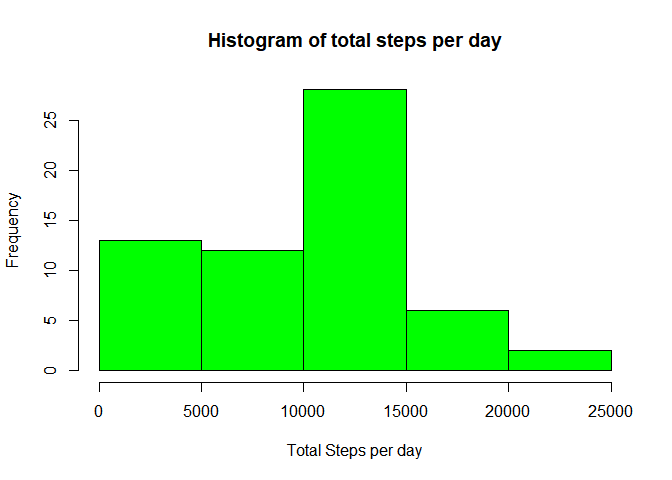
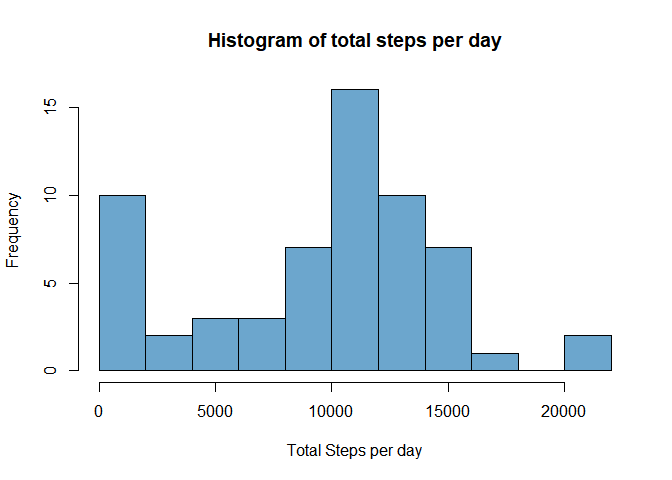
adds remaining parts of the assignment

diff --git a/PA1_template.html b/PA1_template.html
@@ -369,58 +369,69 @@ summary {
 <div id="load-required-libraries" class="section level2">
 <h2>Load required libraries</h2>
 <pre class="r"><code>library(dplyr, warn.conflicts = FALSE, quietly = TRUE)
-library(knitr)</code></pre>
+library(knitr)
+library(lattice)</code></pre>
 </div>
 <div id="loading-and-preprocessing-the-data" class="section level2">
 <h2>Loading and preprocessing the data</h2>
-<p>Load the data</p>
+<div id="load-the-data" class="section level3">
+<h3>Load the data</h3>
 <pre class="r"><code>if (!exists(&quot;activity.csv&quot;) &amp; exists(&quot;activity.zip&quot;)){
   unzip(&quot;activity.zip&quot;)
 }
 activity_raw &lt;- read.csv(&quot;activity.csv&quot;)</code></pre>
-<p>Process/transform the data (if necessary) into a format suitable for your analysis</p>
+</div>
+<div id="processtransform-the-data-if-necessary-into-a-format-suitable-for-your-analysis" class="section level3">
+<h3>Process/transform the data (if necessary) into a format suitable for your analysis</h3>
 <pre class="r"><code># Convert the character type dates into Date class
 activity_raw$date &lt;- as.Date(activity_raw$date, &quot;%Y-%m-%d&quot;)</code></pre>
 </div>
+</div>
 <div id="what-is-mean-total-number-of-steps-taken-per-day" class="section level2">
 <h2>What is mean total number of steps taken per day?</h2>
-<p>Calculate the total number of steps taken per day</p>
+<div id="calculate-the-total-number-of-steps-taken-per-day" class="section level3">
+<h3>Calculate the total number of steps taken per day</h3>
 <pre class="r"><code>total_number_of_steps_per_day &lt;- activity_raw %&gt;% 
   group_by(date) %&gt;% 
   summarise(total.steps = sum(steps, na.rm = TRUE))
 
-head(total_number_of_steps_per_day, 10)</code></pre>
-<pre><code>## # A tibble: 10 x 2
-##    date       total.steps
-##    &lt;date&gt;           &lt;int&gt;
-##  1 2012-10-01           0
-##  2 2012-10-02         126
-##  3 2012-10-03       11352
-##  4 2012-10-04       12116
-##  5 2012-10-05       13294
-##  6 2012-10-06       15420
-##  7 2012-10-07       11015
-##  8 2012-10-08           0
-##  9 2012-10-09       12811
-## 10 2012-10-10        9900</code></pre>
-<p>Make a histogram of the total number of steps taken each day</p>
+head(total_number_of_steps_per_day)</code></pre>
+<pre><code>## # A tibble: 6 x 2
+##   date       total.steps
+##   &lt;date&gt;           &lt;int&gt;
+## 1 2012-10-01           0
+## 2 2012-10-02         126
+## 3 2012-10-03       11352
+## 4 2012-10-04       12116
+## 5 2012-10-05       13294
+## 6 2012-10-06       15420</code></pre>
+</div>
+<div id="make-a-histogram-of-the-total-number-of-steps-taken-each-day" class="section level3">
+<h3>Make a histogram of the total number of steps taken each day</h3>
 <pre class="r"><code>with(total_number_of_steps_per_day, hist(total.steps, 
                                          xlab = c(&quot;Total Steps per day&quot;),
                                          main = c(&quot;Histogram of total steps per day&quot;),
-                                         col = &quot;green&quot;))</code></pre>
[1 lines of base64/hex data omitted]
-<p>Calculate and report the mean of the total number of steps taken per day</p>
+                                         col = &quot;skyblue3&quot;,
+                                         breaks = 8))</code></pre>
[1 lines of base64/hex data omitted]
+</div>
+<div id="calculate-and-report-the-mean-of-the-total-number-of-steps-taken-per-day" class="section level3">
+<h3>Calculate and report the mean of the total number of steps taken per day</h3>
 <pre class="r"><code>sprintf(&quot;Mean Total Steps Per Day = %0.0f&quot;,
         total_number_of_steps_per_day %&gt;% summarise(mean(total.steps, na.rm = TRUE)))</code></pre>
 <pre><code>## [1] &quot;Mean Total Steps Per Day = 9354&quot;</code></pre>
-<p>Calculate and report the median of the total number of steps taken per day</p>
+</div>
+<div id="calculate-and-report-the-median-of-the-total-number-of-steps-taken-per-day" class="section level3">
+<h3>Calculate and report the median of the total number of steps taken per day</h3>
 <pre class="r"><code>sprintf(&quot;Median Total Steps Per Day = %0.0f&quot;,
         total_number_of_steps_per_day %&gt;% summarise(median(total.steps, na.rm = TRUE)))</code></pre>
 <pre><code>## [1] &quot;Median Total Steps Per Day = 10395&quot;</code></pre>
 </div>
+</div>
 <div id="what-is-the-average-daily-activity-pattern" class="section level2">
 <h2>What is the average daily activity pattern?</h2>
-<p>Make a time series plot ( i.e. type = “l”) of the 5-minute interval (x-axis) and the average number of steps taken, averaged across all days (y-axis)</p>
+<div id="make-a-time-series-plot-i.e.-type-l-of-the-5-minute-interval-x-axis-and-the-average-number-of-steps-taken-averaged-across-all-days-y-axis" class="section level3">
+<h3>Make a time series plot ( i.e. type = “l”) of the 5-minute interval (x-axis) and the average number of steps taken, averaged across all days (y-axis)</h3>
 <pre class="r"><code>mean_daily_activity &lt;- activity_raw %&gt;% group_by(interval) %&gt;% summarise(mean.steps = mean(steps, na.rm = TRUE))
 
 with(mean_daily_activity, plot(interval, mean.steps, 
@@ -429,24 +440,85 @@ with(mean_daily_activity, plot(interval, mean.steps,
                                ylab = &quot;Average Steps taken&quot;,
                                main = &quot;Daily Activity Pattern&quot;))</code></pre>
[1 lines of base64/hex data omitted]
-<p>Which 5-minute interval, on average across all the days in the dataset, contains the maximum number of steps?</p>
-<pre class="r"><code>mean_daily_activity$interval[which.max(mean_daily_activity$mean.steps)]</code></pre>
-<p>[1] 835</p>
+</div>
+<div id="which-5-minute-interval-on-average-across-all-the-days-in-the-dataset-contains-the-maximum-number-of-steps" class="section level3">
+<h3>Which 5-minute interval, on average across all the days in the dataset, contains the maximum number of steps?</h3>
+<pre class="r"><code>sprintf(&quot;5-minute interval with maximum number of steps is %0.0f&quot;,mean_daily_activity$interval[which.max(mean_daily_activity$mean.steps)])</code></pre>
+<p>[1] “5-minute interval with maximum number of steps is 835”</p>
+</div>
 </div>
 <div id="imputing-missing-values" class="section level2">
 <h2>Imputing missing values</h2>
-<p>Calculate and report the total number of missing values in the dataset (i.e. the total number of rows with NAs</p>
+<div id="calculate-and-report-the-total-number-of-missing-values-in-the-dataset-i.e.-the-total-number-of-rows-with-nas" class="section level3">
+<h3>Calculate and report the total number of missing values in the dataset (i.e. the total number of rows with NAs</h3>
 <pre class="r"><code>sprintf(&quot;Total number of NAs = %0.0f&quot;, sum(is.na(activity_raw$steps)))</code></pre>
 <p>[1] “Total number of NAs = 2304”</p>
-<p>Devise a strategy for filling in all of the missing values in the dataset. The strategy does not need to be sophisticated. For example, you could use the mean/median for that day, or the mean for that 5-minute interval, etc.</p>
-<p>Create a new dataset that is equal to the original dataset but with the missing data filled in.</p>
-<p>Make a histogram of the total number of steps taken each day and Calculate and report the mean and median total number of steps taken per day. Do these values differ from the estimates from the first part of the assignment?</p>
-<p>What is the impact of imputing missing data on the estimates of the total daily number of steps?</p>
+</div>
+<div id="devise-a-strategy-for-filling-in-all-of-the-missing-values-in-the-dataset.-the-strategy-does-not-need-to-be-sophisticated.-for-example-you-could-use-the-meanmedian-for-that-day-or-the-mean-for-that-5-minute-interval-etc." class="section level3">
+<h3>Devise a strategy for filling in all of the missing values in the dataset. The strategy does not need to be sophisticated. For example, you could use the mean/median for that day, or the mean for that 5-minute interval, etc.</h3>
+</div>
+<div id="create-a-new-dataset-that-is-equal-to-the-original-dataset-but-with-the-missing-data-filled-in." class="section level3">
+<h3>Create a new dataset that is equal to the original dataset but with the missing data filled in.</h3>
+<pre class="r"><code># Find the rows with NA steps
+indices_with_NA &lt;- which(is.na(activity_raw$steps))
+
+# Make a copy of the activity dataframe that will be imputed
+activity &lt;- activity_raw
+
+# For each Na entry in the steps column, replace it with the mean across days for the corresponding interval
+for (current_index in indices_with_NA)
+{
+  activity$steps[current_index] &lt;- mean_daily_activity$mean.steps[mean_daily_activity$interval == activity$interval[current_index]]
+}</code></pre>
+</div>
+<div id="make-a-histogram-of-the-total-number-of-steps-taken-each-day-and-calculate-and-report-the-mean-and-median-total-number-of-steps-taken-per-day.-do-these-values-differ-from-the-estimates-from-the-first-part-of-the-assignment" class="section level3">
+<h3>Make a histogram of the total number of steps taken each day and Calculate and report the mean and median total number of steps taken per day. Do these values differ from the estimates from the first part of the assignment?</h3>
+<pre class="r"><code># Calculate total number of steps taken each day
+total_number_of_steps_per_day_imputed &lt;- activity %&gt;% 
+  group_by(date) %&gt;% 
+  summarise(total.steps = sum(steps, na.rm = TRUE))
+
+# Create a histogram
+with(total_number_of_steps_per_day_imputed, hist(total.steps, 
+                                         xlab = c(&quot;Total Steps per day&quot;),
+                                         main = c(&quot;Histogram of total steps per day after imputing missing values&quot;),
+                                         col = &quot;skyblue3&quot;,
+                                         breaks = 8))</code></pre>
[1 lines of base64/hex data omitted]
+<pre class="r"><code>sprintf(&quot;Mean Total Steps Per Day after imputing missing values = %0.0f&quot;,
+        total_number_of_steps_per_day_imputed %&gt;% summarise(mean(total.steps, na.rm = TRUE)))</code></pre>
+<p>[1] “Mean Total Steps Per Day after imputing missing values = 10766”</p>
+<pre class="r"><code>sprintf(&quot;Median Total Steps Per Day after imputing missing values = %0.0f&quot;,
+        total_number_of_steps_per_day_imputed %&gt;% summarise(median(total.steps, na.rm = TRUE)))</code></pre>
+<p>[1] “Median Total Steps Per Day after imputing missing values = 10766”</p>
+</div>
+<div id="what-is-the-impact-of-imputing-missing-data-on-the-estimates-of-the-total-daily-number-of-steps" class="section level3">
+<h3>What is the impact of imputing missing data on the estimates of the total daily number of steps?</h3>
+<p>Imputing the missing values has changed the distribution of the steps across days. The imputing strategy of replacing the missing values with non-zero mean values has increased both the mean and median of the total number of steps across days</p>
+</div>
 </div>
 <div id="are-there-differences-in-activity-patterns-between-weekdays-and-weekends" class="section level2">
 <h2>Are there differences in activity patterns between weekdays and weekends?</h2>
-<p>Create a new factor variable in the dataset with two levels – “weekday” and “weekend” indicating whether a given date is a weekday or weekend day.</p>
-<p>Make a panel plot containing a time series plot (i.e. type = “l”) of the 5-minute interval (x-axis) and the average number of steps taken, averaged across all weekday days or weekend days (y-axis).</p>
+<div id="create-a-new-factor-variable-in-the-dataset-with-two-levels-weekday-and-weekend-indicating-whether-a-given-date-is-a-weekday-or-weekend-day." class="section level3">
+<h3>Create a new factor variable in the dataset with two levels – “weekday” and “weekend” indicating whether a given date is a weekday or weekend day.</h3>
+<pre class="r"><code>activity &lt;- mutate(activity, type.of.day = as.POSIXlt(activity$date)$wday)
+activity$type.of.day[which(activity$type.of.day &lt; 6 &amp; activity$type.of.day &gt; 0)] &lt;- c(&quot;weekday&quot;)
+activity$type.of.day[which(activity$type.of.day == 0 | activity$type.of.day == 6)] &lt;- c(&quot;weekend&quot;)
+activity$type.of.day &lt;- as.factor(activity$type.of.day)</code></pre>
+</div>
+<div id="make-a-panel-plot-containing-a-time-series-plot-i.e.type-l-of-the-5-minute-interval-x-axis-and-the-average-number-of-steps-taken-averaged-across-all-weekday-days-or-weekend-days-y-axis." class="section level3">
+<h3>Make a panel plot containing a time series plot (i.e.type = “l”) of the 5-minute interval (x-axis) and the average number of steps taken, averaged across all weekday days or weekend days (y-axis).</h3>
+<pre class="r"><code># Calculate the average total number of steps across intervals by weekday or weekend 
+activity_type_of_day &lt;- activity %&gt;% group_by(type.of.day, interval) %&gt;% summarise(mean.steps = mean(steps, na.rm = TRUE))
+
+# Generate the panel plot
+xyplot(mean.steps ~ interval | type.of.day,
+    data = activity_type_of_day, type = c(&quot;l&quot;),
+    layout = c(1,2),
+    xlab = &quot;Interval&quot;,
+    ylab = &quot;Number of Steps&quot;)</code></pre>
[1 lines of base64/hex data omitted]
+</div>
 </div>
 
 

diff --git a/PA1_template.md b/PA1_template.md
@@ -10,10 +10,11 @@ output:
 ```r
 library(dplyr, warn.conflicts = FALSE, quietly = TRUE)
 library(knitr)
+library(lattice)
 ```
 
 ## Loading and preprocessing the data 
-Load the data
+### Load the data
 
 ```r
 if (!exists("activity.csv") & exists("activity.zip")){
@@ -22,7 +23,7 @@ if (!exists("activity.csv") & exists("activity.zip")){
 activity_raw <- read.csv("activity.csv")
 ```
 
-Process/transform the data (if necessary) into a format suitable for your analysis
+### Process/transform the data (if necessary) into a format suitable for your analysis
 
 ```r
 # Convert the character type dates into Date class
@@ -30,44 +31,41 @@ activity_raw$date <- as.Date(activity_raw$date, "%Y-%m-%d")
 ```
 
 ## What is mean total number of steps taken per day?
-Calculate the total number of steps taken per day
+### Calculate the total number of steps taken per day
 
 ```r
 total_number_of_steps_per_day <- activity_raw %>% 
   group_by(date) %>% 
   summarise(total.steps = sum(steps, na.rm = TRUE))
 
-head(total_number_of_steps_per_day, 10)
+head(total_number_of_steps_per_day)
 ```
 
 ```
-## # A tibble: 10 x 2
-##    date       total.steps
-##    <date>           <int>
-##  1 2012-10-01           0
-##  2 2012-10-02         126
-##  3 2012-10-03       11352
-##  4 2012-10-04       12116
-##  5 2012-10-05       13294
-##  6 2012-10-06       15420
-##  7 2012-10-07       11015
-##  8 2012-10-08           0
-##  9 2012-10-09       12811
-## 10 2012-10-10        9900
+## # A tibble: 6 x 2
+##   date       total.steps
+##   <date>           <int>
+## 1 2012-10-01           0
+## 2 2012-10-02         126
+## 3 2012-10-03       11352
+## 4 2012-10-04       12116
+## 5 2012-10-05       13294
+## 6 2012-10-06       15420
 ```
 
-Make a histogram of the total number of steps taken each day
+### Make a histogram of the total number of steps taken each day
 
 ```r
 with(total_number_of_steps_per_day, hist(total.steps, 
                                          xlab = c("Total Steps per day"),
                                          main = c("Histogram of total steps per day"),
-                                         col = "green"))
+                                         col = "skyblue3",
+                                         breaks = 8))
 ```
 
 ![](PA1_template_files/figure-html/unnamed-chunk-5-1.png)<!-- -->
 
-Calculate and report the mean of the total number of steps taken per day
+### Calculate and report the mean of the total number of steps taken per day
 
 ```r
 sprintf("Mean Total Steps Per Day = %0.0f",
@@ -78,7 +76,7 @@ sprintf("Mean Total Steps Per Day = %0.0f",
 ## [1] "Mean Total Steps Per Day = 9354"
 ```
 
-Calculate and report the median of the total number of steps taken per day
+### Calculate and report the median of the total number of steps taken per day
 
 ```r
 sprintf("Median Total Steps Per Day = %0.0f",
@@ -90,7 +88,7 @@ sprintf("Median Total Steps Per Day = %0.0f",
 ```
 
 ## What is the average daily activity pattern?
-Make a time series plot ( i.e. type = "l") of the 5-minute interval (x-axis) and the average number of steps taken, averaged across all days (y-axis)
+### Make a time series plot ( i.e. type = "l") of the 5-minute interval (x-axis) and the average number of steps taken, averaged across all days (y-axis)
 
 ```r
 mean_daily_activity <- activity_raw %>% group_by(interval) %>% summarise(mean.steps = mean(steps, na.rm = TRUE))
@@ -104,16 +102,16 @@ with(mean_daily_activity, plot(interval, mean.steps,
 
 ![](PA1_template_files/figure-html/unnamed-chunk-8-1.png)<!-- -->
 
-Which 5-minute interval, on average across all the days in the dataset, contains the maximum number of steps?
+### Which 5-minute interval, on average across all the days in the dataset, contains the maximum number of steps?
 
 ```r
-mean_daily_activity$interval[which.max(mean_daily_activity$mean.steps)]
+sprintf("5-minute interval with maximum number of steps is %0.0f",mean_daily_activity$interval[which.max(mean_daily_activity$mean.steps)])
 ```
 
-[1] 835
+[1] "5-minute interval with maximum number of steps is 835"
 
 ## Imputing missing values
-Calculate and report the total number of missing values in the dataset (i.e. the total number of rows with NAs
+### Calculate and report the total number of missing values in the dataset (i.e. the total number of rows with NAs
 
 ```r
 sprintf("Total number of NAs = %0.0f", sum(is.na(activity_raw$steps)))
@@ -121,15 +119,81 @@ sprintf("Total number of NAs = %0.0f", sum(is.na(activity_raw$steps)))
 
 [1] "Total number of NAs = 2304"
 
-Devise a strategy for filling in all of the missing values in the dataset. The strategy does not need to be sophisticated. For example, you could use the mean/median for that day, or the mean for that 5-minute interval, etc.
+### Devise a strategy for filling in all of the missing values in the dataset. The strategy does not need to be sophisticated. For example, you could use the mean/median for that day, or the mean for that 5-minute interval, etc.
 
-Create a new dataset that is equal to the original dataset but with the missing data filled in.
+### Create a new dataset that is equal to the original dataset but with the missing data filled in.
 
-Make a histogram of the total number of steps taken each day and Calculate and report the mean and median total number of steps taken per day. Do these values differ from the estimates from the first part of the assignment? 
+```r
+# Find the rows with NA steps
+indices_with_NA <- which(is.na(activity_raw$steps))
 
-What is the impact of imputing missing data on the estimates of the total daily number of steps?
+# Make a copy of the activity dataframe that will be imputed
+activity <- activity_raw
+
+# For each Na entry in the steps column, replace it with the mean across days for the corresponding interval
+for (current_index in indices_with_NA)
+{
+  activity$steps[current_index] <- mean_daily_activity$mean.steps[mean_daily_activity$interval == activity$interval[current_index]]
+}
+```
+
+### Make a histogram of the total number of steps taken each day and Calculate and report the mean and median total number of steps taken per day. Do these values differ from the estimates from the first part of the assignment? 
+
+```r
+# Calculate total number of steps taken each day
+total_number_of_steps_per_day_imputed <- activity %>% 
+  group_by(date) %>% 
+  summarise(total.steps = sum(steps, na.rm = TRUE))
+
+# Create a histogram
+with(total_number_of_steps_per_day_imputed, hist(total.steps, 
+                                         xlab = c("Total Steps per day"),
+                                         main = c("Histogram of total steps per day after imputing missing values"),
+                                         col = "skyblue3",
+                                         breaks = 8))
+```
+
+![](PA1_template_files/figure-html/unnamed-chunk-12-1.png)<!-- -->
+
+```r
+sprintf("Mean Total Steps Per Day after imputing missing values = %0.0f",
+        total_number_of_steps_per_day_imputed %>% summarise(mean(total.steps, na.rm = TRUE)))
+```
+
+[1] "Mean Total Steps Per Day after imputing missing values = 10766"
+
+```r
+sprintf("Median Total Steps Per Day after imputing missing values = %0.0f",
+        total_number_of_steps_per_day_imputed %>% summarise(median(total.steps, na.rm = TRUE)))
+```
+
+[1] "Median Total Steps Per Day after imputing missing values = 10766"
+
+### What is the impact of imputing missing data on the estimates of the total daily number of steps?
+Imputing the missing values has changed the distribution of the steps across days. The imputing strategy of replacing the missing values with non-zero mean values has increased both the mean and median of the total number of steps across days 
 
 ## Are there differences in activity patterns between weekdays and weekends?
-Create a new factor variable in the dataset with two levels – “weekday” and “weekend” indicating whether a given date is a weekday or weekend day.
+### Create a new factor variable in the dataset with two levels – “weekday” and “weekend” indicating whether a given date is a weekday or weekend day.
 
-Make a panel plot containing a time series plot (i.e. \color{red}{\verb|type = "l"|}type = "l") of the 5-minute interval (x-axis) and the average number of steps taken, averaged across all weekday days or weekend days (y-axis). 
+```r
+activity <- mutate(activity, type.of.day = as.POSIXlt(activity$date)$wday)
+activity$type.of.day[which(activity$type.of.day < 6 & activity$type.of.day > 0)] <- c("weekday")
+activity$type.of.day[which(activity$type.of.day == 0 | activity$type.of.day == 6)] <- c("weekend")
+activity$type.of.day <- as.factor(activity$type.of.day)
+```
+
+### Make a panel plot containing a time series plot (i.e.type = "l") of the 5-minute interval (x-axis) and the average number of steps taken, averaged across all weekday days or weekend days (y-axis).
+
+```r
+# Calculate the average total number of steps across intervals by weekday or weekend 
+activity_type_of_day <- activity %>% group_by(type.of.day, interval) %>% summarise(mean.steps = mean(steps, na.rm = TRUE))
+
+# Generate the panel plot
+xyplot(mean.steps ~ interval | type.of.day,
+    data = activity_type_of_day, type = c("l"),
+    layout = c(1,2),
+    xlab = "Interval",
+    ylab = "Number of Steps")
+```
+
+![](PA1_template_files/figure-html/unnamed-chunk-14-1.png)<!-- -->
